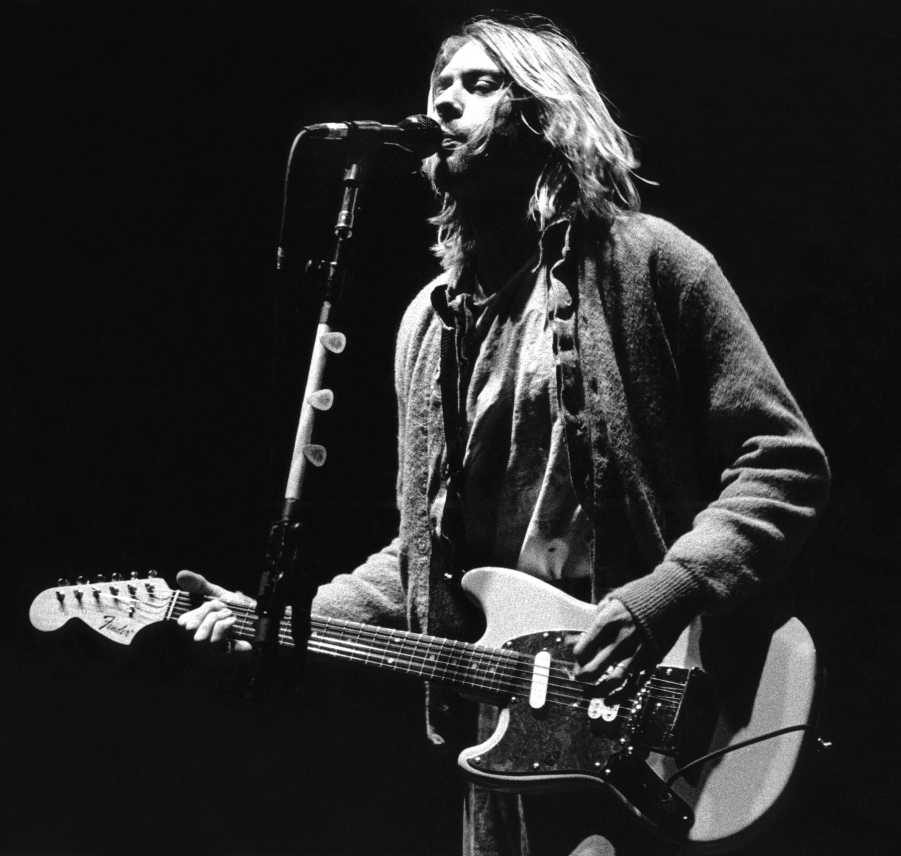
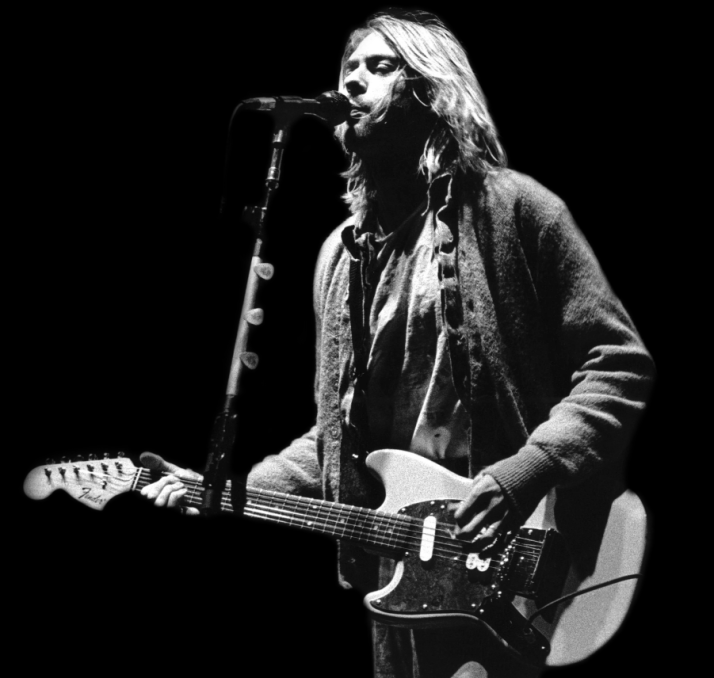
GuitArt

diff --git a/CSS/models.css b/CSS/models.css
@@ -326,7 +326,6 @@ footer .contact-info strong i {
 
   .mid-content img {
     height: 500px;
-    width: 550px;
   }
 
 
@@ -404,7 +403,6 @@ footer .contact-info strong i {
     margin: 0 auto;
   }
 }
-
 
 
 @media(max-width: 830px) {
